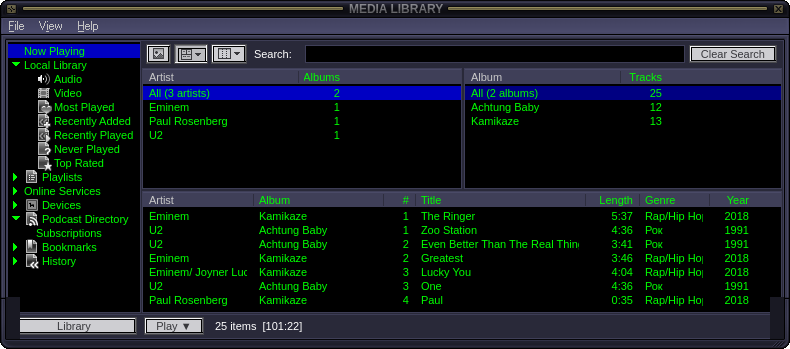
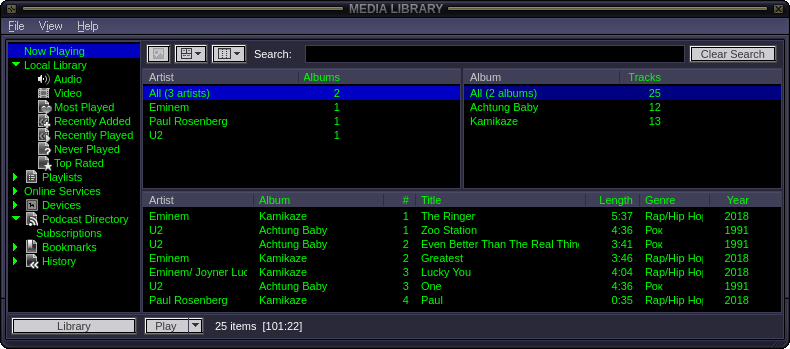
site: media library shot without the grey rectangles
Rendered with qtamp fbd9a85, where window holders paint above the skin:
the library is visible again and the grey rectangles over its bottom
corners are gone. tools/shots.sh renders it against a demo library (the
same two albums as before, hardlinked into a throwaway HOME) so the site
never shows the rest of a personal collection, and stamps a hash of each
image into its URL so browsers fetch an image exactly when it changed.

diff --git a/site/index.html b/site/index.html
@@ -180,7 +180,7 @@
 
     <figure class="heroshot" id="heroplayer">
       <div class="playerbox" id="playerbox">
-        <img src="/assets/shots/modernpp-eq.png?v=20261015" width="354" height="280" alt="qtamp rendering the QTAMP-branded WinampModernPP skin with the EQ drawer open">
+        <img src="/assets/shots/modernpp-eq.png?v=2a2e392136" width="354" height="280" alt="qtamp rendering the QTAMP-branded WinampModernPP skin with the EQ drawer open">
         <button class="playbtn" id="playbtn" onclick="startPlayer()" aria-label="Start the in-browser qtamp player">
           <svg viewBox="0 0 24 24" width="30" height="30" aria-hidden="true"><path fill="currentColor" d="M8 5v14l11-7z"/></svg>
           <span>Run qtamp in your browser</span>
@@ -246,19 +246,19 @@
     <p class="lead">Live renders of the <a href="https://github.com/qtamp/WinampModernPP">QTAMP-branded WinampModernPP</a> skin (MIT, by Eris Lund). The drawers open and close, the EQ is a real 10-band DSP, the playlist editor is the skin's own.</p>
     <div class="gallery">
       <figure>
-        <img src="/assets/shots/modernpp-eq.png?v=20261015" width="354" height="280" alt="Config drawer open with the equalizer tab active">
+        <img src="/assets/shots/modernpp-eq.png?v=2a2e392136" width="354" height="280" alt="Config drawer open with the equalizer tab active">
         <figcaption><b>Drawer open, EQ live.</b> The config drawer, its EQUALIZER / OPTIONS / COLOR THEMES tabs, and the 10-band equalizer feeding a real biquad DSP chain.</figcaption>
       </figure>
       <figure>
-        <img src="/assets/shots/modernpp-drawer-closed.png?v=20261015" width="354" height="164" alt="Player with the config drawer closed">
+        <img src="/assets/shots/modernpp-drawer-closed.png?v=b9236de8cd" width="354" height="164" alt="Player with the config drawer closed">
         <figcaption><b>Drawer closed.</b> Same skin with the drawer tucked away. The window resizes with it, exactly like the original engine.</figcaption>
       </figure>
       <figure>
-        <img src="/assets/shots/playlist-editor.png?v=20261015" width="437" height="164" alt="The skin's playlist editor window">
+        <img src="/assets/shots/playlist-editor.png?v=b1e3cf6c0c" width="437" height="164" alt="The skin's playlist editor window">
         <figcaption><b>The real playlist editor.</b> Not a lookalike widget: the skin's own PLEDIT window rendered by the engine, playing an actual playlist.</figcaption>
       </figure>
       <figure style="grid-column:1/-1">
-        <img src="/assets/shots/ml-window.png" alt="The Media Library window listing real artists, albums and tracks">
+        <img src="/assets/shots/ml-window.png?v=9ba86db69d" alt="The Media Library window listing real artists, albums and tracks">
         <figcaption><b>The Media Library, with your actual music.</b> Artist → album → track drill-down, live filtering, double-click to play. Behind it sits a DuckDB + Parquet index qtamp builds from your music folder's tags.</figcaption>
       </figure>
     </div>
@@ -277,15 +277,15 @@
     </p>
     <div class="gallery">
       <figure>
-        <img src="/assets/shots/theme-goodolwinamp.png?v=20261015" width="354" height="280" alt="WinampModernPP in the Good Ol' Winamp color theme">
+        <img src="/assets/shots/theme-goodolwinamp.png?v=c8cce39914" width="354" height="280" alt="WinampModernPP in the Good Ol' Winamp color theme">
         <figcaption><b>“Good Ol' Winamp”</b>: the skin's classic silver-blue preset.</figcaption>
       </figure>
       <figure>
-        <img src="/assets/shots/theme-blues.png?v=20261015" width="354" height="280" alt="WinampModernPP in the Blues color theme">
+        <img src="/assets/shots/theme-blues.png?v=325d6ba0bc" width="354" height="280" alt="WinampModernPP in the Blues color theme">
         <figcaption><b>“Blues”</b>: the same art, re-tinted live by the gammaset engine.</figcaption>
       </figure>
       <figure>
-        <img src="/assets/shots/theme-halloween.png?v=20261015" width="354" height="280" alt="WinampModernPP in the Halloween color theme">
+        <img src="/assets/shots/theme-halloween.png?v=7ebd99362e" width="354" height="280" alt="WinampModernPP in the Halloween color theme">
         <figcaption><b>“Halloween”</b>: every element group follows its own gamma curve, exactly as the skin author tuned it.</figcaption>
       </figure>
     </div>
